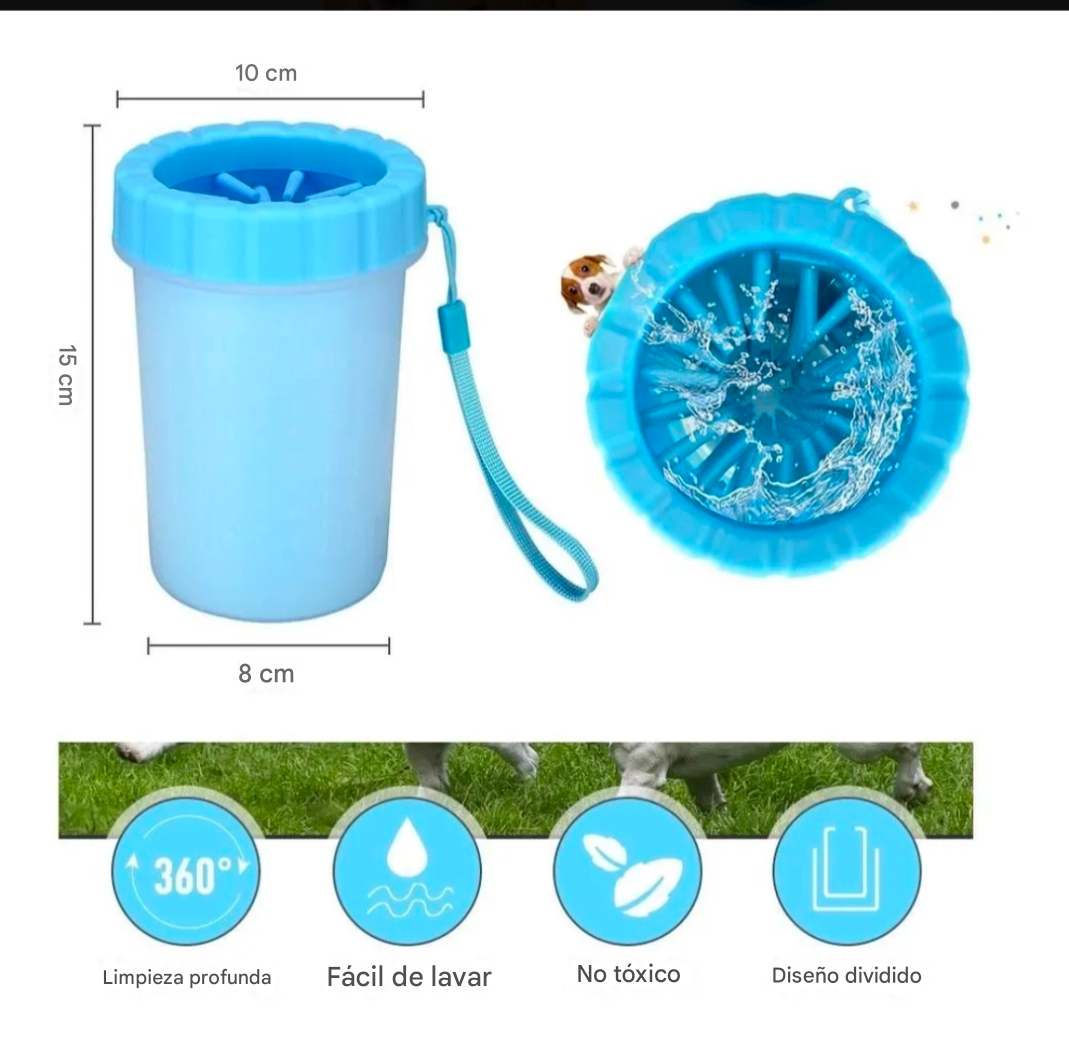
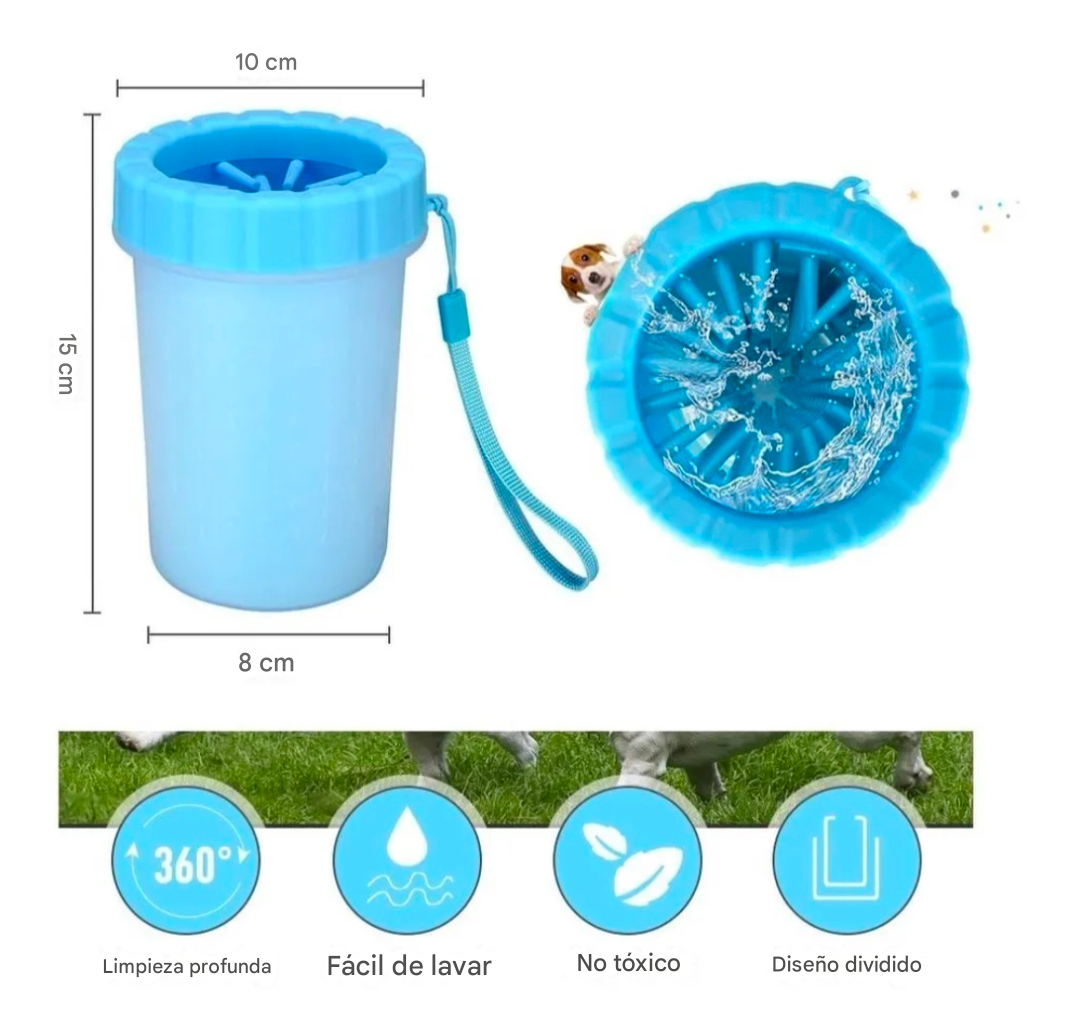
updated

diff --git a/cepillo/index.html b/cepillo/index.html
@@ -280,8 +280,8 @@ footer a:hover{color:white;}
   <a href="../index.html" class="logo" style="font-family:'Lora',serif;font-size:1.2rem;font-weight:700;color:rgba(240,245,238,0.8);">pet<span style="color:#5BA55B;">Zen</span></a>
   <span>© 2026 petZen · Manizales, Colombia</span>
   <div style="display:flex;gap:1rem;">
-    <a href="../#faq">FAQ</a>
-    <a href="../#contacto">Contacto</a>
+    <a href="javascript:void(0)" onclick="goToSection('faq')">FAQ</a>
+    <a href="javascript:void(0)" onclick="goToSection('contacto')">Contacto</a>
     <a href="https://wa.me/573009848000">WhatsApp</a>
   </div>
 </footer>
@@ -438,6 +438,75 @@ async function submitReview() {
     err.style.display='block';
   }
   btn.disabled=false; btn.textContent='Publicar reseña';
+}
+
+
+// SLIDESHOW - auto-advance every 2.5s
+var slideImages = ["petZen Images/Hair removal pet brush/cepillo 1.png", "petZen Images/Hair removal pet brush/cepillo 2.png", "petZen Images/Hair removal pet brush/cepillo 3.png", "petZen Images/Hair removal pet brush/cepillo 4.png", "petZen Images/Hair removal pet brush/cepillo 5.png", "petZen Images/Hair removal pet brush/cepillo 6.png"];
+var slideIdx = 0;
+var slideTimer = null;
+var isVideoPlaying = false;
+
+function startSlideshow() {
+  if (slideTimer) return;
+  slideTimer = setInterval(function() {
+    if (isVideoPlaying) return;
+    slideIdx = (slideIdx + 1) % slideImages.length;
+    var wrap = document.getElementById('mainWrap');
+    var img = wrap.querySelector('img');
+    if (img) {
+      img.style.opacity = '0';
+      setTimeout(function() {
+        img.src = '../' + slideImages[slideIdx];
+        img.style.opacity = '1';
+      }, 200);
+    }
+    // update active thumb
+    var thumbs = document.querySelectorAll('.thumb');
+    thumbs.forEach(function(t, i) { t.classList.toggle('active', i === slideIdx); });
+  }, 2500);
+}
+
+// Override setImg to pause slideshow temporarily
+var origSetImg = setImg;
+function setImg(el) {
+  clearInterval(slideTimer);
+  slideTimer = null;
+  var src = el.src;
+  slideIdx = slideImages.indexOf(src.replace(window.location.origin + window.location.pathname.replace('index.html',''), '../').replace('../',''));
+  if (slideIdx < 0) slideIdx = 0;
+  document.getElementById('mainWrap').innerHTML = '<img src="' + src + '" style="width:100%;height:100%;object-fit:contain;transition:opacity 0.3s;">';
+  document.querySelectorAll('.thumb,.vthumb').forEach(function(t) { t.classList.remove('active'); });
+  el.classList.add('active');
+  // restart after 5s
+  setTimeout(startSlideshow, 5000);
+}
+
+// Override playVideo to stop slideshow
+var origPlayVideo = typeof playVideo !== 'undefined' ? playVideo : function(){};
+function playVideo() {
+  clearInterval(slideTimer);
+  slideTimer = null;
+  isVideoPlaying = true;
+  var v = "";
+  if (!v) return;
+  var wrap = document.getElementById('mainWrap');
+  wrap.innerHTML = '<video src="../' + v + '" controls autoplay muted style="width:100%;height:100%;object-fit:contain;"></video>';
+  document.querySelectorAll('.thumb,.vthumb').forEach(function(t) { t.classList.remove('active'); });
+  document.querySelector('.vthumb') && document.querySelector('.vthumb').classList.add('active');
+}
+
+// Add fade transition to main img
+document.addEventListener('DOMContentLoaded', function() {
+  var img = document.querySelector('#mainWrap img');
+  if (img) img.style.transition = 'opacity 0.3s ease';
+  setTimeout(startSlideshow, 3000); // start after 3s
+});
+
+
+function goToSection(id) {
+  sessionStorage.setItem('scrollTo', id);
+  window.location.href = '../index.html';
 }
 
 // Handle ?add= param from redirect

diff --git a/patas/index.html b/patas/index.html
@@ -280,8 +280,8 @@ footer a:hover{color:white;}
   <a href="../index.html" class="logo" style="font-family:'Lora',serif;font-size:1.2rem;font-weight:700;color:rgba(240,245,238,0.8);">pet<span style="color:#5BA55B;">Zen</span></a>
   <span>© 2026 petZen · Manizales, Colombia</span>
   <div style="display:flex;gap:1rem;">
-    <a href="../#faq">FAQ</a>
-    <a href="../#contacto">Contacto</a>
+    <a href="javascript:void(0)" onclick="goToSection('faq')">FAQ</a>
+    <a href="javascript:void(0)" onclick="goToSection('contacto')">Contacto</a>
     <a href="https://wa.me/573009848000">WhatsApp</a>
   </div>
 </footer>
@@ -438,6 +438,75 @@ async function submitReview() {
     err.style.display='block';
   }
   btn.disabled=false; btn.textContent='Publicar reseña';
+}
+
+
+// SLIDESHOW - auto-advance every 2.5s
+var slideImages = ["petZen Images/Paw cleaner/1.png", "petZen Images/Paw cleaner/Screenshot_20260330-183147.png", "petZen Images/Paw cleaner/Screenshot_20260330-183208.png", "petZen Images/Paw cleaner/Screenshot_20260330-183218.png", "petZen Images/Paw cleaner/Screenshot_20260330-183226.png"];
+var slideIdx = 0;
+var slideTimer = null;
+var isVideoPlaying = false;
+
+function startSlideshow() {
+  if (slideTimer) return;
+  slideTimer = setInterval(function() {
+    if (isVideoPlaying) return;
+    slideIdx = (slideIdx + 1) % slideImages.length;
+    var wrap = document.getElementById('mainWrap');
+    var img = wrap.querySelector('img');
+    if (img) {
+      img.style.opacity = '0';
+      setTimeout(function() {
+        img.src = '../' + slideImages[slideIdx];
+        img.style.opacity = '1';
+      }, 200);
+    }
+    // update active thumb
+    var thumbs = document.querySelectorAll('.thumb');
+    thumbs.forEach(function(t, i) { t.classList.toggle('active', i === slideIdx); });
+  }, 2500);
+}
+
+// Override setImg to pause slideshow temporarily
+var origSetImg = setImg;
+function setImg(el) {
+  clearInterval(slideTimer);
+  slideTimer = null;
+  var src = el.src;
+  slideIdx = slideImages.indexOf(src.replace(window.location.origin + window.location.pathname.replace('index.html',''), '../').replace('../',''));
+  if (slideIdx < 0) slideIdx = 0;
+  document.getElementById('mainWrap').innerHTML = '<img src="' + src + '" style="width:100%;height:100%;object-fit:contain;transition:opacity 0.3s;">';
+  document.querySelectorAll('.thumb,.vthumb').forEach(function(t) { t.classList.remove('active'); });
+  el.classList.add('active');
+  // restart after 5s
+  setTimeout(startSlideshow, 5000);
+}
+
+// Override playVideo to stop slideshow
+var origPlayVideo = typeof playVideo !== 'undefined' ? playVideo : function(){};
+function playVideo() {
+  clearInterval(slideTimer);
+  slideTimer = null;
+  isVideoPlaying = true;
+  var v = "";
+  if (!v) return;
+  var wrap = document.getElementById('mainWrap');
+  wrap.innerHTML = '<video src="../' + v + '" controls autoplay muted style="width:100%;height:100%;object-fit:contain;"></video>';
+  document.querySelectorAll('.thumb,.vthumb').forEach(function(t) { t.classList.remove('active'); });
+  document.querySelector('.vthumb') && document.querySelector('.vthumb').classList.add('active');
+}
+
+// Add fade transition to main img
+document.addEventListener('DOMContentLoaded', function() {
+  var img = document.querySelector('#mainWrap img');
+  if (img) img.style.transition = 'opacity 0.3s ease';
+  setTimeout(startSlideshow, 3000); // start after 3s
+});
+
+
+function goToSection(id) {
+  sessionStorage.setItem('scrollTo', id);
+  window.location.href = '../index.html';
 }
 
 // Handle ?add= param from redirect

diff --git a/collar/index.html b/collar/index.html
@@ -280,8 +280,8 @@ footer a:hover{color:white;}
   <a href="../index.html" class="logo" style="font-family:'Lora',serif;font-size:1.2rem;font-weight:700;color:rgba(240,245,238,0.8);">pet<span style="color:#5BA55B;">Zen</span></a>
   <span>© 2026 petZen · Manizales, Colombia</span>
   <div style="display:flex;gap:1rem;">
-    <a href="../#faq">FAQ</a>
-    <a href="../#contacto">Contacto</a>
+    <a href="javascript:void(0)" onclick="goToSection('faq')">FAQ</a>
+    <a href="javascript:void(0)" onclick="goToSection('contacto')">Contacto</a>
     <a href="https://wa.me/573009848000">WhatsApp</a>
   </div>
 </footer>
@@ -438,6 +438,75 @@ async function submitReview() {
     err.style.display='block';
   }
   btn.disabled=false; btn.textContent='Publicar reseña';
+}
+
+
+// SLIDESHOW - auto-advance every 2.5s
+var slideImages = ["petZen Images/Collar led/1.png", "petZen Images/Collar led/2.png", "petZen Images/Collar led/3.png", "petZen Images/Collar led/4.png", "petZen Images/Collar led/5.png"];
+var slideIdx = 0;
+var slideTimer = null;
+var isVideoPlaying = false;
+
+function startSlideshow() {
+  if (slideTimer) return;
+  slideTimer = setInterval(function() {
+    if (isVideoPlaying) return;
+    slideIdx = (slideIdx + 1) % slideImages.length;
+    var wrap = document.getElementById('mainWrap');
+    var img = wrap.querySelector('img');
+    if (img) {
+      img.style.opacity = '0';
+      setTimeout(function() {
+        img.src = '../' + slideImages[slideIdx];
+        img.style.opacity = '1';
+      }, 200);
+    }
+    // update active thumb
+    var thumbs = document.querySelectorAll('.thumb');
+    thumbs.forEach(function(t, i) { t.classList.toggle('active', i === slideIdx); });
+  }, 2500);
+}
+
+// Override setImg to pause slideshow temporarily
+var origSetImg = setImg;
+function setImg(el) {
+  clearInterval(slideTimer);
+  slideTimer = null;
+  var src = el.src;
+  slideIdx = slideImages.indexOf(src.replace(window.location.origin + window.location.pathname.replace('index.html',''), '../').replace('../',''));
+  if (slideIdx < 0) slideIdx = 0;
+  document.getElementById('mainWrap').innerHTML = '<img src="' + src + '" style="width:100%;height:100%;object-fit:contain;transition:opacity 0.3s;">';
+  document.querySelectorAll('.thumb,.vthumb').forEach(function(t) { t.classList.remove('active'); });
+  el.classList.add('active');
+  // restart after 5s
+  setTimeout(startSlideshow, 5000);
+}
+
+// Override playVideo to stop slideshow
+var origPlayVideo = typeof playVideo !== 'undefined' ? playVideo : function(){};
+function playVideo() {
+  clearInterval(slideTimer);
+  slideTimer = null;
+  isVideoPlaying = true;
+  var v = "";
+  if (!v) return;
+  var wrap = document.getElementById('mainWrap');
+  wrap.innerHTML = '<video src="../' + v + '" controls autoplay muted style="width:100%;height:100%;object-fit:contain;"></video>';
+  document.querySelectorAll('.thumb,.vthumb').forEach(function(t) { t.classList.remove('active'); });
+  document.querySelector('.vthumb') && document.querySelector('.vthumb').classList.add('active');
+}
+
+// Add fade transition to main img
+document.addEventListener('DOMContentLoaded', function() {
+  var img = document.querySelector('#mainWrap img');
+  if (img) img.style.transition = 'opacity 0.3s ease';
+  setTimeout(startSlideshow, 3000); // start after 3s
+});
+
+
+function goToSection(id) {
+  sessionStorage.setItem('scrollTo', id);
+  window.location.href = '../index.html';
 }
 
 // Handle ?add= param from redirect

diff --git a/index.html b/index.html
@@ -2186,7 +2186,7 @@
 </section>
 
 <!-- REVIEWS -->
-<section class="reviews-section" id="resenas">
+<section class="reviews-section" id="resenas" style="scroll-margin-top:80px;">
   <h2>Lo que dicen nuestros <em>clientes</em></h2>
   <p style="font-size:0.9rem;color:var(--muted);margin-bottom:1.5rem;">Reseñas reales de clientes que han comprado en petZen</p>
 
@@ -2263,7 +2263,7 @@
 </div>
 
 <!-- FAQ -->
-<section class="faq" id="faq">
+<section class="faq" id="faq" style="scroll-margin-top:80px;">
   <h2>Preguntas <em>frecuentes</em></h2>
   <div class="faq-list">
     <div class="faq-item">
@@ -2305,7 +2305,7 @@
 </section>
 
 <!-- CONTACT + RETURNS -->
-<section id="contacto" style="background:var(--warm-white);padding:5rem 3rem;">
+<section id="contacto" style="scroll-margin-top:80px;background:var(--warm-white);padding:5rem 3rem;"background:var(--warm-white);padding:5rem 3rem;">
   <div style="max-width:1100px;margin:0 auto;display:grid;grid-template-columns:1fr 1fr;gap:3rem;align-items:start;">
 
     <!-- Contact -->
@@ -3828,6 +3828,22 @@ function renderHpReviews(filterRating) {
     listEl.appendChild(card);
   });
 }
+
+
+// Scroll to section if redirected from landing page
+(function(){
+  var target = sessionStorage.getItem('scrollTo');
+  if (target) {
+    sessionStorage.removeItem('scrollTo');
+    setTimeout(function(){
+      var el = document.getElementById(target);
+      if (el) {
+        var offset = el.getBoundingClientRect().top + window.pageYOffset - 90;
+        window.scrollTo({ top: offset, behavior: 'smooth' });
+      }
+    }, 500);
+  }
+})();
 
 document.addEventListener('DOMContentLoaded', function() {
   // Initialize carousel
